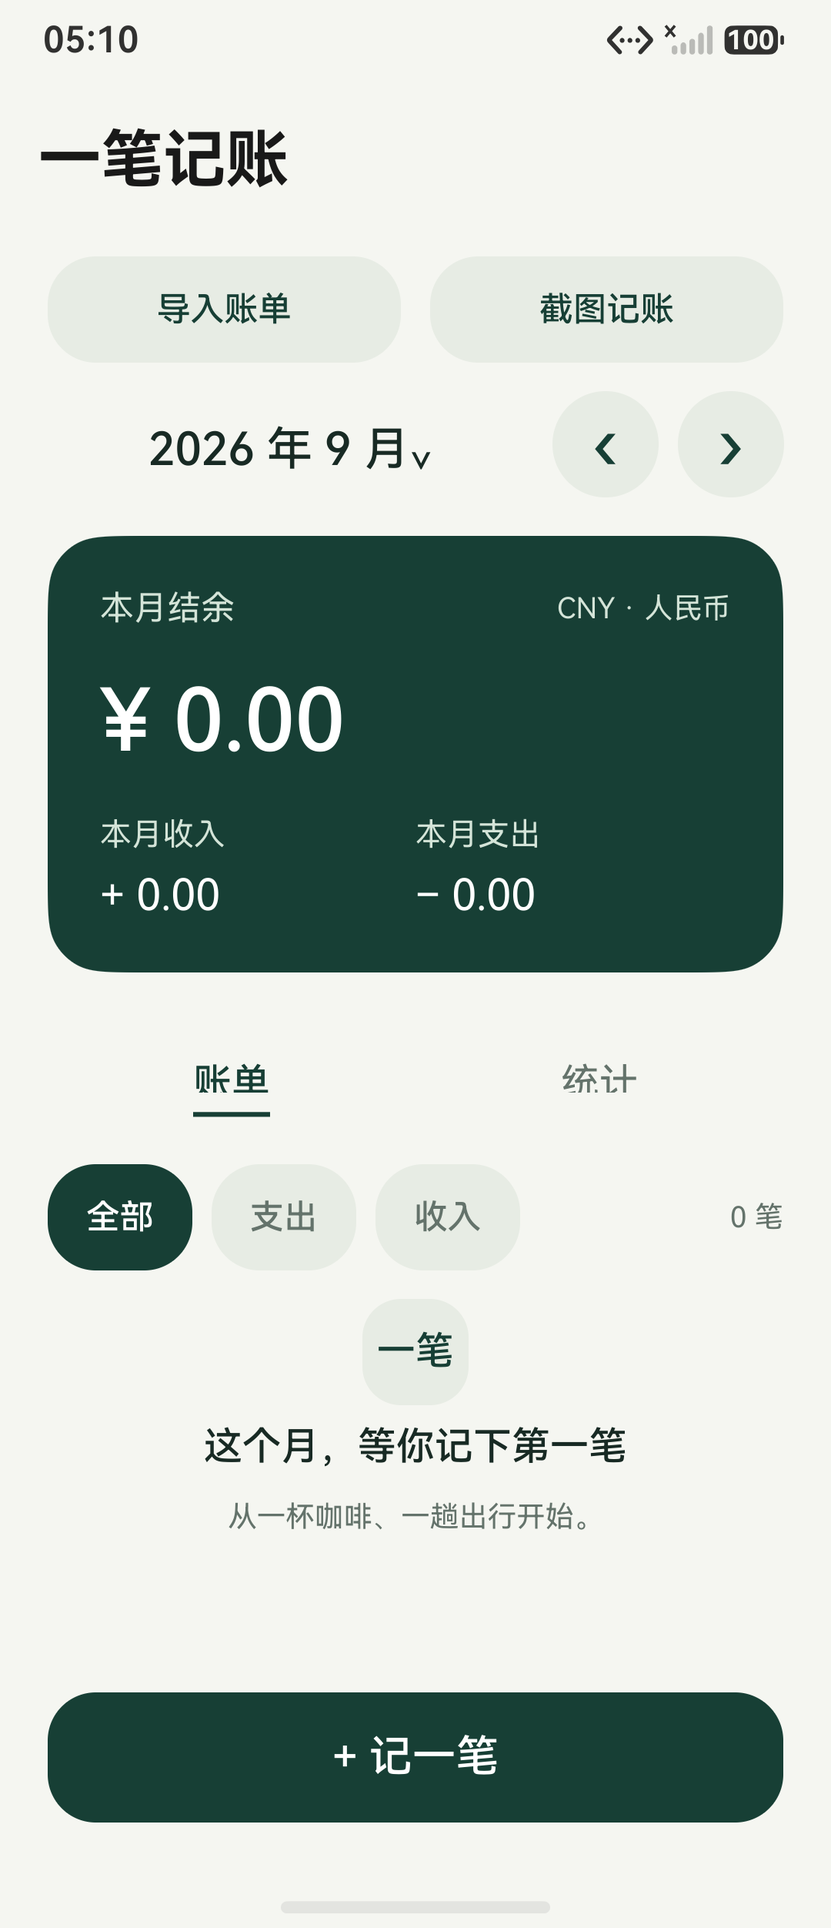
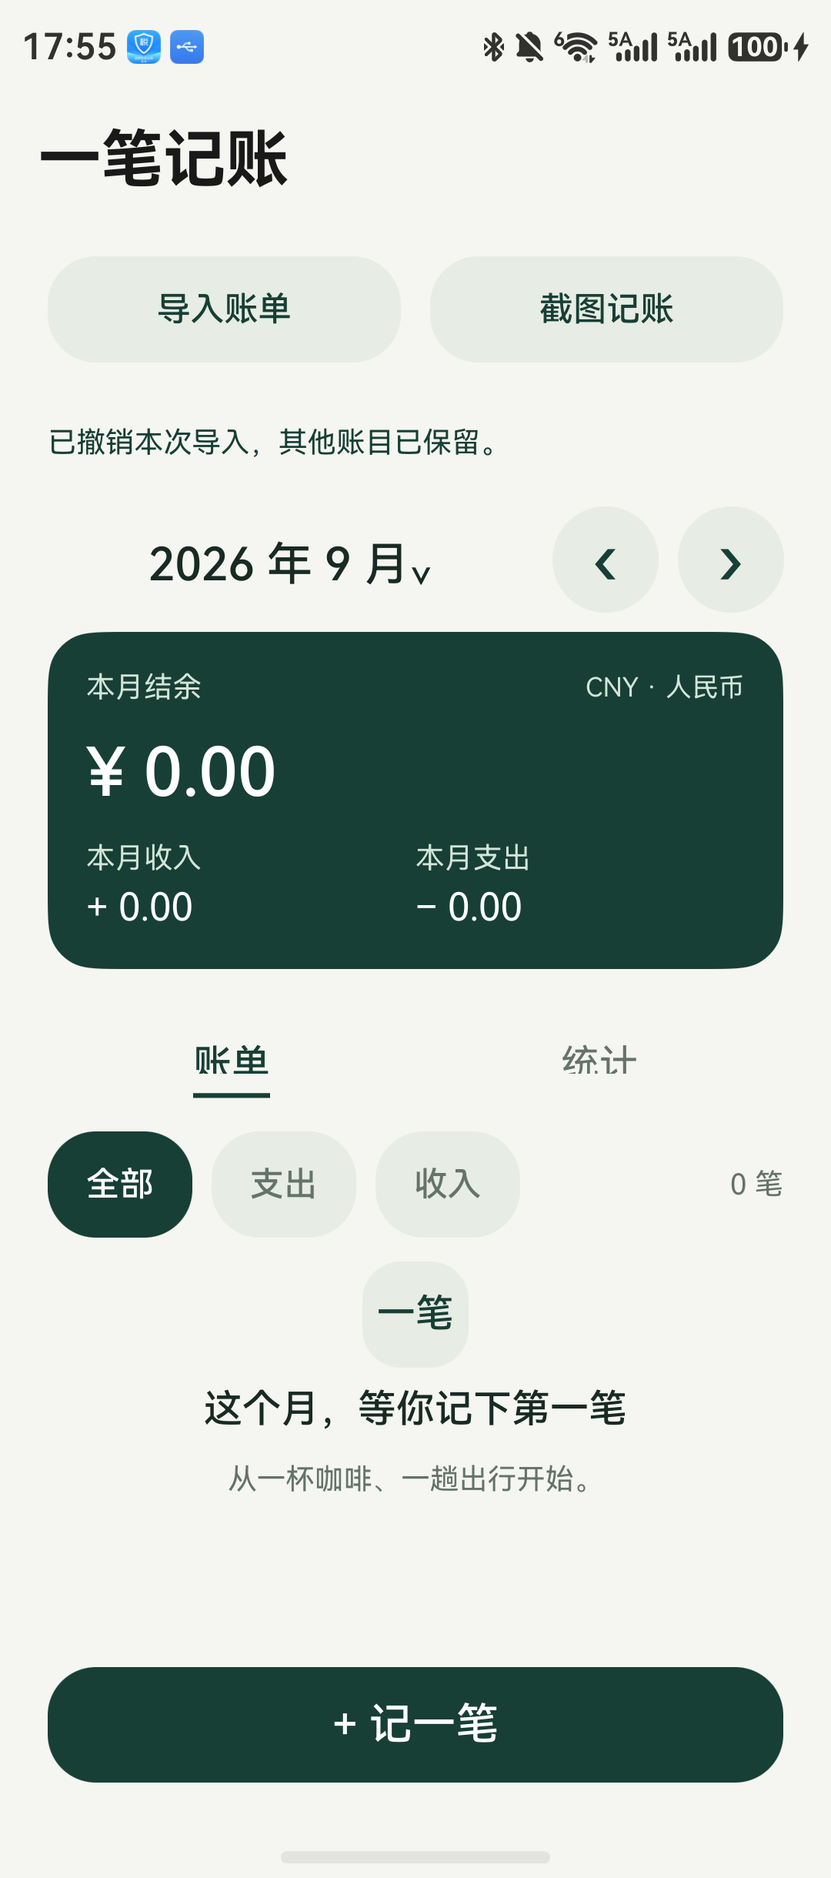
fix(yibi-ledger): keep imported bills visible on Mate X6 outer screen
Combine the import notice and undo control, compact the narrow-screen summary, and reduce spacing while retaining wide-screen sizes and all accounting behavior. Increment the native version code and record the completed Mate X6 import, local image OCR, acknowledgement, cleanup, and two-row layout checks.

diff --git a/apps/yibi-ledger/README.md b/apps/yibi-ledger/README.md
@@ -2,9 +2,9 @@
 
 面向个人日常使用的 HarmonyOS 本地记账应用，使用 ArkTS + ArkUI。可记录收支、修改账单、按月查看结余和支出分类，并适配窄屏与折叠屏展开布局。
 
-[版本发布](https://github.com/sk-yan/harmonyos-apps/releases/tag/yibi-ledger-v1.1.0-preview.1) · [构建与安装](docs/INSTALL.md) · [改进记录](../../docs/IMPROVEMENTS-1.1.md) · [返回应用目录](../../README.md)
+[版本发布](https://github.com/sk-yan/harmonyos-apps/releases/tag/yibi-ledger-v1.1.0-preview.2) · [构建与安装](docs/INSTALL.md) · [改进记录](../../docs/IMPROVEMENTS-1.1.md) · [返回应用目录](../../README.md)
 
-**当前为 `1.1.0-preview.1` 开发预览版，公开下载的 HAP 未签名。** 原生版本为 `1.1.0`，版本码为 `1001000`。模拟器验收使用 HarmonyOS 6.1.0（API 23）、Mate X5 折叠屏模板。另已在 Mate X6（API 24）配置本地调试签名、安装启动，并检查 GBK 文件预览与首次保存；完整真机回归和系统图片 OCR 尚未完成。个人调试签名包不公开分发。
+**当前为 `1.1.0-preview.2` 开发预览版，公开下载的 HAP 未签名。** 原生版本为 `1.1.0`，版本码为 `1001001`。模拟器验收使用 HarmonyOS 6.1.0（API 23）、Mate X5 折叠屏模板。已在 Mate X6（API 24）完成本地调试签名安装、外屏账单导入/去重/撤销，以及系统图片 OCR、确认保存和删除验证。个人调试签名包不公开分发。
 
 ## 功能
 
@@ -22,7 +22,7 @@
 ## 导入微信或支付宝账单
 
 1. 在支付平台导出账单明细。外层 ZIP 包先解压，保留 CSV 或 XLSX 的表头和交易单号，不要先用表格软件把长单号转换成数字。
-2. 点击「导入账单」，选择文件；也可粘贴含表头的 CSV 或表格文字。支持 UTF-8 / GBK CSV，以及普通未加密 XLSX。每个文件最多 **8 MiB、5,000 笔明细**；不支持旧 XLS、加密文件或含公式的工作表。
+2. 点击「导入账单」，选择文件；也可粘贴含表头的 CSV 或表格文字。支持 UTF-8 / GBK CSV，以及普通未加密 XLSX（读取第一个可见工作表）。每个文件最多 **8 MiB、5,000 笔明细**；不支持旧 XLS、加密文件或含公式的工作表。
 3. 检查文件来源、覆盖月份、已选笔数及收支金额。列表每页 30 行，可筛选已选、需核对和已跳过项；默认只选择普通、完整且可导入的交易。
 4. 退款、转账、充值、提现、还款、理财和疑似重复项默认不选。只有确认它应按显示的「收入」或「支出」计入时才勾选。**退款不会自动冲减原支出或修正历史净额。** 金额、日期或方向缺失的行需回到原账单核对后手动补记。
 5. 确认导入后，应用一次保存整批结果，并跳到本批最新的账单月份。本会话内可「撤销本次导入」：只删除最近一批新增的记录，包括后来编辑过的这些记录，其他手动新增账目保留。
@@ -37,7 +37,7 @@
 
 金额、日期有歧义时留空，方向不确定时需要手动选择。余额、优惠金额和纯数字订单尾号不会作为可靠的交易金额直接填入。核对勾选后才可保存；当天已有同方向、同金额记录时，还会提醒检查是否已经记过。
 
-原生版使用系统 Core Vision OCR；该能力不支持模拟器，**真实手机图片 OCR 尚未验收**，模拟器可粘贴文字走完整核对流程。浏览器版在本机运行中英文 OCR，脚本与模型从当前预览站点加载，图片不会发送给外部识别服务。浏览器识别结果同样必须人工核对。
+原生版使用系统 Core Vision OCR；该能力不支持模拟器，**已在 Mate X6（API 24）通过合成单笔图片的真实 OCR 与确认保存验证**，模拟器可粘贴文字走完整核对流程。浏览器版在本机运行中英文 OCR，脚本与模型从当前预览站点加载，图片不会发送给外部识别服务。浏览器识别结果同样必须人工核对。
 
 ## 旧账本兼容
 
@@ -48,7 +48,7 @@
 ## 实际界面
 
 <p>
-  <img src="docs/screenshots/phone-empty.png" width="235" alt="初次启动时的空账本" />
+  <img src="docs/screenshots/phone-empty.png" width="235" alt="外屏空账本" />
   <img src="docs/screenshots/phone-sample.png" width="235" alt="窄屏下的测试账单和月度收支" />
 </p>
 
@@ -59,7 +59,7 @@
 
 </details>
 
-截图来自实际模拟器，样例为验收用测试账单；测试后已清空。应用默认不附带示例账目。
+前两张截图来自 Mate X6 外屏实测，其余图标明模拟器或浏览器来源，样例均为合成测试账单；测试后已清空。应用默认不附带示例账目。
 
 <details>
 <summary>导入冲突核对与浏览器本地 OCR 示例</summary>
@@ -99,7 +99,7 @@ python3 scripts/deveco.py yibi-ledger build --modules entry --build-mode debug
 
 ## 验证状态
 
-1.1 已通过 58 项共享核心/存储/XLSX 测试、8 项构建辅助脚本测试、类型检查和预览构建。浏览器原有 9 组与新增 12 组串联通过，生产静态页面也实际通过 CSV 和中文 OCR 检查。原生基础回归 8 组通过；导入相关 8 项按“文件平台 6 项 + 最终键盘与文字草稿 2 项”分段完成，不表示同一轮完整脚本一次通过。详情见[本次验证记录](docs/verification-1.1-preview.1.json)和[改进记录](../../docs/IMPROVEMENTS-1.1.md)。
+1.1 已通过 58 项共享核心/存储/XLSX 测试、8 项构建辅助脚本测试、类型检查和预览构建。浏览器原有 9 组与新增 12 组串联通过，生产静态页面也实际通过 CSV 和中文 OCR 检查。原生基础回归 8 组通过；导入相关 8 项按“文件平台 6 项 + 最终键盘与文字草稿 2 项”分段完成，不表示同一轮完整脚本一次通过。详情见[本次验证记录](docs/verification-1.1-preview.2.json)和[改进记录](../../docs/IMPROVEMENTS-1.1.md)。
 
 1.0 已发布版本的基线记录保留在 [verification-preview.1.json](docs/verification-preview.1.json)。此前完整 CodeLinter 的性能分析器发生内部错误；补充 ESLint 结果不能代表 1.1 全量原生 Lint 通过。存储模拟测试也不能替代真实设备文件系统测试。详见[验证说明](../../docs/VALIDATION.md)。
 

diff --git a/docs/IMPROVEMENTS-1.1.md b/docs/IMPROVEMENTS-1.1.md
@@ -1,6 +1,6 @@
 # 一笔记账 1.1：审阅后的改进
 
-本次预发布为 `1.1.0-preview.1`，原生版本 `1.1.0`、版本码 `1001000`。目标是把历史支付账单安全地带入本地账本，并让截图成为可核对的录入起点。三个独立审阅方向分别检查账务含义、日常操作和平台边界；以下记录实际修改与验证范围。
+本次预发布为 `1.1.0-preview.2`，原生版本 `1.1.0`、版本码 `1001001`。目标是把历史支付账单安全地带入本地账本，并让截图成为可核对的录入起点。三个独立审阅方向分别检查账务含义、日常操作和平台边界；以下记录实际修改与验证范围。
 
 ## 审阅结论与修改
 
@@ -15,10 +15,10 @@
 | 日常操作 | 从截图草稿切换到旧账目时，旧 OCR 状态可能残留并污染来源 | 放弃草稿后先清空截图状态，再装载旧账目；缺金额、日期或方向不能直接保存 | 核心缺项、原生确认门禁和普通编辑回归通过；另有独立源码审阅 |
 | 日常操作 | 一次误导入难以回退；全账本回滚可能删掉后来手工记录 | 本会话保留最近一批新增 ID，撤销只删除这一批；提示其后编辑过的同批记录也会删除 | 精确按批次 ID 处理；不提供跨重启历史撤销 |
 | 文件与平台 | 长交易号经数字转换会损坏；不完整、加密或异常压缩表格不应进入账本 | CSV 解码为字符串；XLSX 保留单元格文本，限制文件大小和展开规模，拒绝公式、加密文件、损坏数据与不安全引用 | XLSX 单元测试覆盖压缩、CRC、关系、日期、XML 和行列上限；CSV 300 笔、GBK、真实 DEFLATE XLSX 已通过原生专项实测；修复了 zlib 计数需 getZStream 获取的差异 |
-| 文件与平台 | 把文字草稿测试误当图片 OCR 验收，会夸大实际可用性 | 原生系统 OCR 与浏览器本地 OCR 分别实现和验收；粘贴文字作为独立入口，任何识别结果都需人工核对 | 浏览器已识别一张清晰的合成中文单笔截图，非同源请求被阻止；原生 Core Vision 不支持模拟器，真实手机图片 OCR 未验收 |
+| 文件与平台 | 把文字草稿测试误当图片 OCR 验收，会夸大实际可用性 | 原生系统 OCR 与浏览器本地 OCR 分别实现和验收；粘贴文字作为独立入口，任何识别结果都需人工核对 | 浏览器已识别一张清晰的合成中文单笔截图，非同源请求被阻止；原生 Core Vision 不支持模拟器，Mate X6 单张合成图片 OCR 与确认保存已通过 |
 
 | 日常操作 | 输入法尚在展开时按返回，可能先触发丢弃草稿；只看键盘高度会漏掉该路径 | 综合输入框焦点与键盘状态，先清除输入焦点并收键盘；页面与底部面板使用相同规则 | 最终原生严格 Back 回归通过：键盘收起，无丢弃弹窗，文字保持不变 |
-| 外屏布局 | 空账本装饰和留白挤压标题；下载的图片可能不在图库 | 外屏空态使用更紧凑尺寸，截图增加文件选择入口 | 最终模拟器外屏截图与入口检查；手机图片 OCR 仍需单独验收 |
+| 外屏布局 | 空账本装饰和留白挤压标题；下载的图片可能不在图库 | 外屏空态使用更紧凑尺寸，截图增加文件选择入口 | 最终模拟器外屏截图与入口检查；另已完成 Mate X6 系统图片 OCR 实测 |
 
 ## 数据与用户可见规则
 
@@ -30,7 +30,7 @@
 
 ## 本次验证
 
-详情见[验证 JSON](../apps/yibi-ledger/docs/verification-1.1-preview.1.json)。原生导入采用分段验收：文件平台 6 项通过后，针对后续键盘修复重新完成文字草稿 2 项；没有把中途失败的脚本记作同一轮全通过。
+详情见[验证 JSON](../apps/yibi-ledger/docs/verification-1.1-preview.2.json)。原生导入采用分段验收：文件平台 6 项通过后，针对后续键盘修复重新完成文字草稿 2 项；没有把中途失败的脚本记作同一轮全通过。
 
 | 项目 | 结果 | 范围 |
 | --- | --- | --- |
@@ -42,7 +42,11 @@
 | 原生编译、模拟器安装启动 | 通过 | DevEco 26.0.0.821、HarmonyOS 6.1 API 23 折叠屏模板 |
 | 原生导入与截图文字 | 8 项分段通过 | CSV 300 笔、GBK、XLSX、去重冲突、撤销、键盘返回、确认和清理 |
 | 原生基础回归 | 8 组通过 | 收支、编辑删除、统计、重启持久化、折叠草稿 |
-| Mate X6 | 本地调试签名安装及部分检查通过 | API 24；启动、GBK 预览和首次保存，完整真机回归未完成 |
-| 原生真实图片 OCR | 未完成真机验收 | 模拟器不支持系统 Core Vision OCR |
+| Mate X6 | 外屏重点流程通过 | API 24；签名安装、GBK 导入与去重/撤销、原生图片识别、确认保存及删除；未覆盖所有物理内屏/字体组合 |
+| 原生真实图片 OCR | Mate X6 实测通过 | 一张合成 PNG 识别 38.50 / 2026-09-10，确认保存再删除；不外推真实截图整体准确率 |
 | 完整原生 Lint | 未宣称通过 | 此前性能分析器存在工具内部异常 |
 | CI、源码提交与附件 | 见该版本 Release 与 Actions | 发布附件记录源码提交和 SHA-256，不分发个人签名材料 |
+
+## preview.2 外屏补丁
+
+真机在导入后显示长提示与独立撤销按钮，挤压了账单列表。将二者合并为 48vp 行，外屏汇总改为紧凑尺寸，并缩减间距；展开时的汇总尺寸保留。最终 Mate X6 实测两条账单均完整可见，各高 212px；批次撤销后账本为空。该补丁仅修改原生布局及版本码，OCR/解析/存储逻辑保持不变。

diff --git a/README.md b/README.md
@@ -8,9 +8,9 @@
 
 | 应用 | 用途 | 当前版本 | 运行状态 | 入口 |
 | --- | --- | --- | --- | --- |
-| 一笔记账 | 本地记账、微信/支付宝账单导入、截图辅助录入 | `1.1.0-preview.1` | 开发预览；公共包未签名；真机基础检查 | [源码与功能](apps/yibi-ledger/) · [版本发布](https://github.com/sk-yan/harmonyos-apps/releases/tag/yibi-ledger-v1.1.0-preview.1) |
+| 一笔记账 | 本地记账、微信/支付宝账单导入、截图辅助录入 | `1.1.0-preview.2` | 开发预览；公共包未签名；真机基础检查 | [源码与功能](apps/yibi-ledger/) · [版本发布](https://github.com/sk-yan/harmonyos-apps/releases/tag/yibi-ledger-v1.1.0-preview.2) |
 
-**当前为开发预览版，公开下载的 HAP 未签名。** 开发测试使用 HarmonyOS 6.1.0（API 23）、Mate X5 折叠屏模拟器；各版本实际完成的检查见[验证说明](docs/VALIDATION.md)。Release 附件用于开发和模拟器测试，已在 Mate X6（API 24）完成本地调试签名、安装启动及部分 GBK 导入检查；完整真机回归和图片 OCR 仍待完成。个人调试签名包不公开分发。GitHub 发布不等于手机可直接安装或应用市场上架。
+**当前为开发预览版，公开下载的 HAP 未签名。** 开发测试使用 HarmonyOS 6.1.0（API 23）、Mate X5 折叠屏模拟器；各版本实际完成的检查见[验证说明](docs/VALIDATION.md)。Release 附件用于开发和模拟器测试，已在 Mate X6（API 24）完成本地调试签名安装、外屏账单导入/去重/撤销，以及系统图片 OCR、确认保存和删除的重点流程验证。个人调试签名包不公开分发。GitHub 发布不等于手机可直接安装或应用市场上架。
 
 ## 一笔记账
 
@@ -18,7 +18,7 @@
 
 1.1 新增微信/支付宝 CSV、XLSX 账单导入，先预览、核对再保存；可识别重复、提醒退款与转账、撤销最近一次导入。截图可通过本机文字识别或粘贴文字填入草稿，金额、日期和收支方向确认后才入账。另加入月份直达和导入过程中的草稿保护，详见[使用说明](apps/yibi-ledger/)与[审阅后的改进记录](docs/IMPROVEMENTS-1.1.md)。
 
-原生图片 OCR 使用系统能力，官方不支持在模拟器验证，Mate X6 真实图片识别尚未验收；模拟器可使用粘贴文字入口。
+原生图片 OCR 使用系统能力，官方不支持在模拟器验证，Mate X6 已通过单张合成 PNG 的识别、核对、保存和删除验证；模拟器可使用粘贴文字入口。
 
 <p>
   <img src="apps/yibi-ledger/docs/screenshots/phone-empty.png" width="235" alt="一笔记账窄屏空账本界面" />
@@ -32,7 +32,7 @@
 
 </details>
 
-截图来自实际鸿蒙模拟器，展示的是测试账单；应用初次启动为空账本。数据保存在当前应用沙箱中，浏览器预览另存一份独立账本。当前没有账号、云同步或数据导出，卸载或清除数据会删除本机账目。1.1 可读取旧版账本；使用导入功能后应避免降级，旧版保存时会丢失导入身份信息。
+前两张截图来自 Mate X6 外屏实测，其余为模拟器或浏览器验证图；展示的都是合成测试账单；应用初次启动为空账本。数据保存在当前应用沙箱中，浏览器预览另存一份独立账本。当前没有账号、云同步或数据导出，卸载或清除数据会删除本机账目。1.1 可读取旧版账本；使用导入功能后应避免降级，旧版保存时会丢失导入身份信息。
 
 ## 在电脑上预览
 

diff --git a/docs/VALIDATION.md b/docs/VALIDATION.md
@@ -14,15 +14,15 @@
 | 真机验收 | 指定机型、系统与签名下的实际运行 | 所有用户、所有系统版本均可安装 |
 | 应用市场发布 | 审核和上架状态 | 未测试功能或其他渠道的安装情况 |
 
-## 一笔记账 1.1.0-preview.1
+## 一笔记账 1.1.0-preview.2
 
 当前共享核心、存储模拟与 XLSX 测试合计 58 项通过，TypeScript 检查通过。覆盖 5,000 行导入、超限拒绝、长交易单号、重复与疑似项、退款与状态变化、编辑后的身份保留、v1 旧账本兼容、前置原子校验、XLSX 压缩和 XML 边界，以及截图缺失或歧义字段留空。
 
 浏览器新增交互验收 12 组通过，未记录运行时错误或非同源请求。真实 OCR 测试使用一张清晰的合成中文单笔交易截图，在阻止非同源请求时提取到金额 `38.50`、日期 `2026-09-10`、支出方向及测试商户文字；该单样例不支持对真实截图整体准确率作结论。
 
-本次已完成原有原生功能 8 组回归，导入相关 8 项按文件平台 6 项与最终键盘/文字草稿 2 项分段通过；浏览器原有 9 组与新增 12 组串联通过。生产静态预览也实际通过 CSV 导入与本地中文 OCR。详见[本次记录](../apps/yibi-ledger/docs/verification-1.1-preview.1.json)及[改进记录](IMPROVEMENTS-1.1.md)。
+本次已完成原有原生功能 8 组回归，导入相关 8 项按文件平台 6 项与最终键盘/文字草稿 2 项分段通过；浏览器原有 9 组与新增 12 组串联通过。生产静态预览也实际通过 CSV 导入与本地中文 OCR。详见[本次记录](../apps/yibi-ledger/docs/verification-1.1-preview.2.json)及[改进记录](IMPROVEMENTS-1.1.md)。
 
-原生图片识别依赖系统 Core Vision OCR，官方不支持模拟器；因此模拟器上的粘贴文字、草稿核对和保存验收不能证明真实手机图片 OCR 已通过。Mate X6 已完成本地签名安装、启动及部分 GBK 导入检查；完整真机回归和系统图片 OCR 仍未完成。
+原生图片识别依赖系统 Core Vision OCR，官方不支持模拟器；因此模拟器上的粘贴文字、草稿核对和保存验收不能证明真实手机图片 OCR 已通过。Mate X6 已完成本地签名安装、外屏账单重点流程及系统图片 OCR 验证；物理内屏旋转和大字体组合未覆盖。
 
 ## 一笔记账 1.0.0-preview.1
 

diff --git a/docs/RELEASES.md b/docs/RELEASES.md
@@ -9,11 +9,11 @@ Git 标签格式为：
 ```text
 <app-id>-v<version>
 yibi-ledger-v1.0.0-preview.1
-yibi-ledger-v1.1.0-preview.1
+yibi-ledger-v1.1.0-preview.2
 yibi-ledger-v1.1.0
 ```
 
-一笔记账首次标签为 `yibi-ledger-v1.0.0-preview.1`；当前版本使用 `yibi-ledger-v1.1.0-preview.1`，在 GitHub Release 勾选 **pre-release**。原生 `AppScope/app.json5` 的 `versionName` 为 `1.1.0`，`versionCode` 为 `1001000`。Git 标签的 `preview.1` 说明分发成熟度，不会自动改变原生包版本。更新应用时需同时维护原生版本和版本码。
+一笔记账首次标签为 `yibi-ledger-v1.0.0-preview.1`；当前版本使用 `yibi-ledger-v1.1.0-preview.2`，在 GitHub Release 勾选 **pre-release**。原生 `AppScope/app.json5` 的 `versionName` 为 `1.1.0`，`versionCode` 为 `1001001`。Git 标签的 `preview.1` 说明分发成熟度，不会自动改变原生包版本。更新应用时需同时维护原生版本和版本码。
 
 合集不使用一个全局版本代表所有 App。GitHub 的“Latest”可能只对应最近发布的某个应用；查找指定 App 时，应从根 README 或 `apps.json` 的具体标签进入。
 
@@ -39,7 +39,7 @@ yibi-ledger-v1.1.0
 
 ## 本次一笔记账的边界
 
-`1.1.0-preview.1` 是未签名的开发预览，增加本地文件导入和截图辅助录入。各层实测情况分别记录在[验证说明](VALIDATION.md)与[改进记录](IMPROVEMENTS-1.1.md)。已在 Mate X6 完成本地调试签名、安装启动与部分 GBK 账单检查；完整真机回归和原生图片 OCR 仍未完成；模拟器不支持该系统 OCR 能力。没有应用市场上架记录。
+`1.1.0-preview.2` 是未签名的开发预览，增加本地文件导入和截图辅助录入。各层实测情况分别记录在[验证说明](VALIDATION.md)与[改进记录](IMPROVEMENTS-1.1.md)。已在 Mate X6 完成本地调试签名安装，外屏导入、去重、撤销及系统图片 OCR 到保存/删除的重点流程已通过；模拟器不支持该系统 OCR 能力。没有应用市场上架记录。
 
 1.1 保持旧账本可读，但旧版应用重新保存时会丢失新导入身份字段，影响去重。Release 说明需提醒启用导入功能后避免降级，不能把 v1 文件格式兼容宣传为双向降级无损。
 

diff --git a/apps/yibi-ledger/docs/INSTALL.md b/apps/yibi-ledger/docs/INSTALL.md
@@ -1,6 +1,6 @@
 # 构建、模拟器与真机安装
 
-一笔记账使用 ArkTS + ArkUI，当前原生版本为 `1.1.0`、版本码为 `1001000`，包名为 `com.shengkun.yibiledger`。公开附件为未签名开发预览。在 Mate X6（API 24）已完成本地调试签名、安装启动和部分 GBK 账单检查；完整真机回归和图片 OCR 尚未完成。个人签名材料与签名包不公开分发。
+一笔记账使用 ArkTS + ArkUI，当前原生版本为 `1.1.0`、版本码为 `1001001`，包名为 `com.shengkun.yibiledger`。公开附件为未签名开发预览。在 Mate X6（API 24）已完成本地调试签名安装、外屏账单重点流程与系统图片 OCR 验证。个人签名材料与签名包不公开分发。
 
 ## 开发环境
 
@@ -83,7 +83,7 @@ python3 scripts/deveco.py yibi-ledger run --module entry --device '<device-id>'
 
 ## 安装到 Mate X6
 
-真机安装还需要 HarmonyOS 认可的签名与设备调试环境，不能把未签名 HAP 当作普通下载即装的安装包。下面是自行构建的完整流程；本次已完成签名、安装与基础检查，完整功能验收仍待完成：
+真机安装还需要 HarmonyOS 认可的签名与设备调试环境，不能把未签名 HAP 当作普通下载即装的安装包。下面是自行构建的完整流程；本次已完成签名安装与外屏重点流程检查，未覆盖全部物理内屏方向和大字体组合：
 
 1. 按[华为真机运行说明](https://developer.huawei.com/consumer/cn/doc/harmonyos-guides/ide-run-device)启用开发者模式与 USB 调试，使用支持数据传输的线连接电脑，在手机和电脑上允许必要的连接提示。先确认 `device list` 能识别该手机。
 2. 在 DevEco Studio 打开脚本生成的 ASCII 工程副本并完成 Sync。IDE 界面打开与同步成功不等于已经编译或安装成功。
